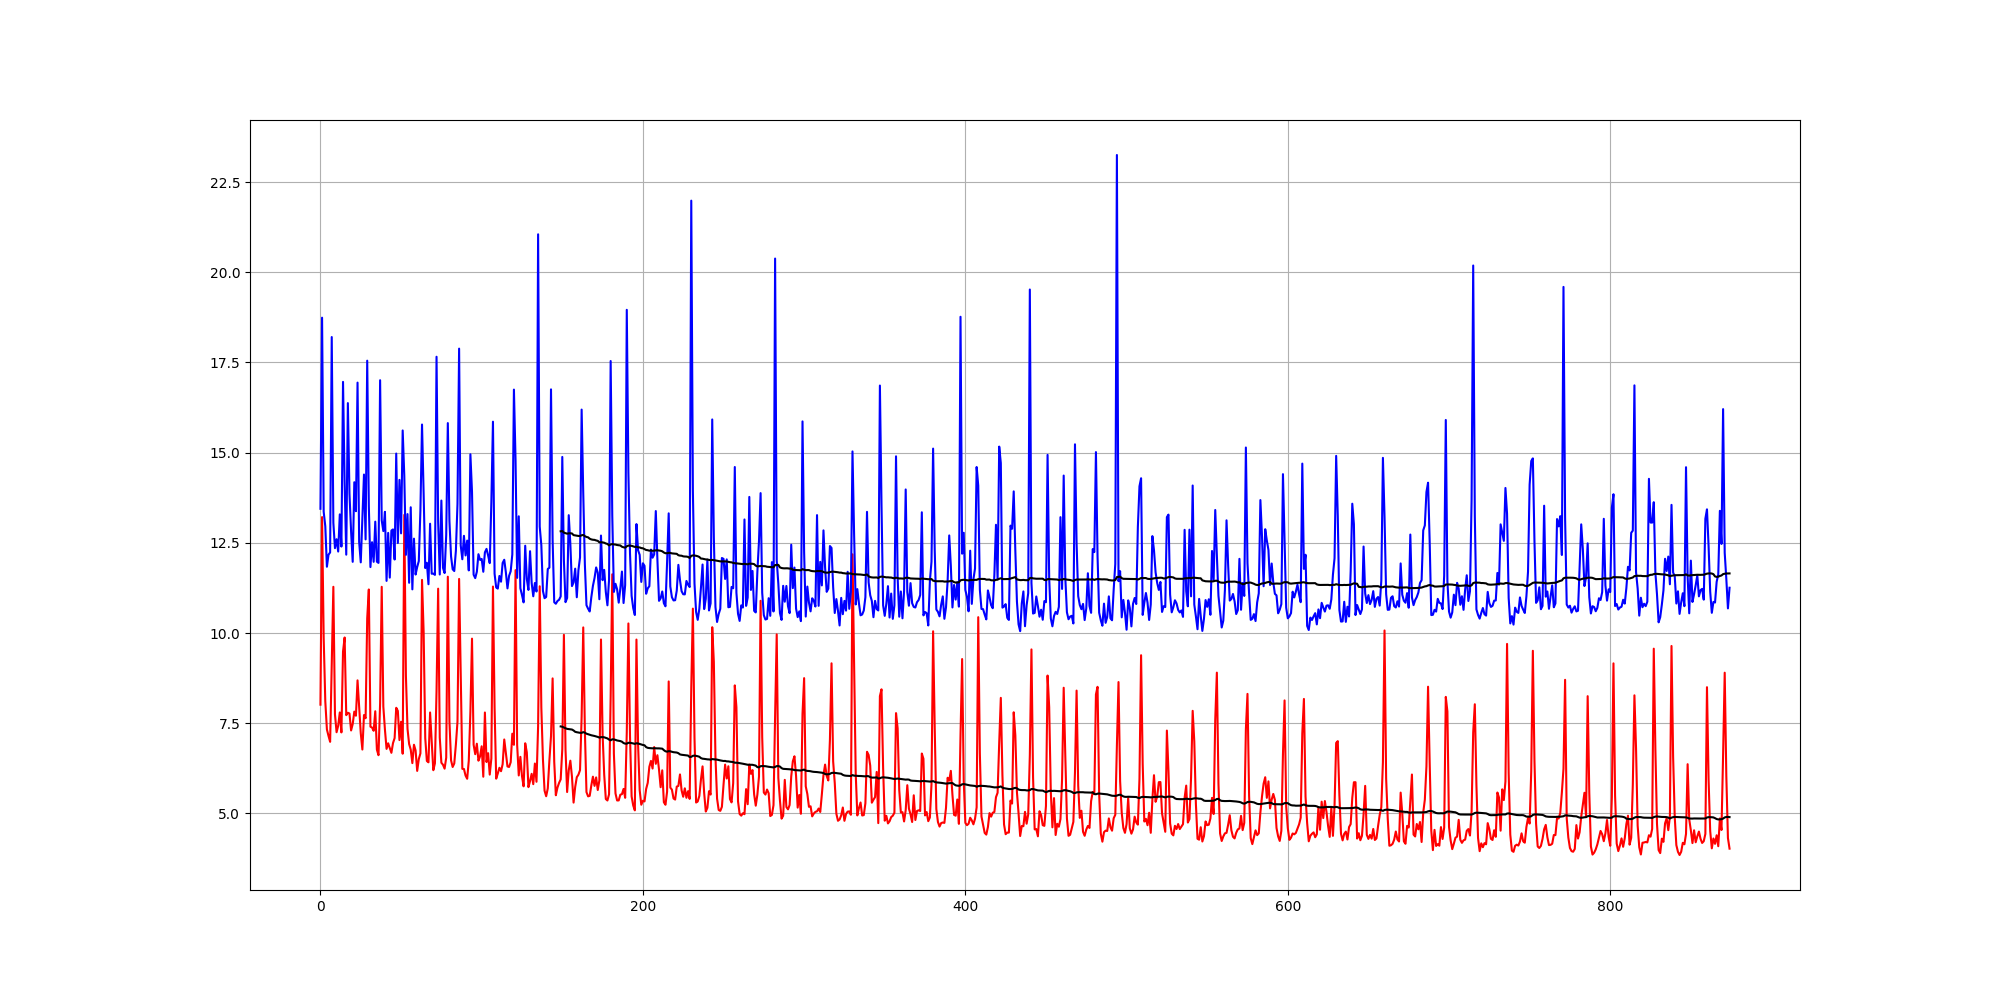
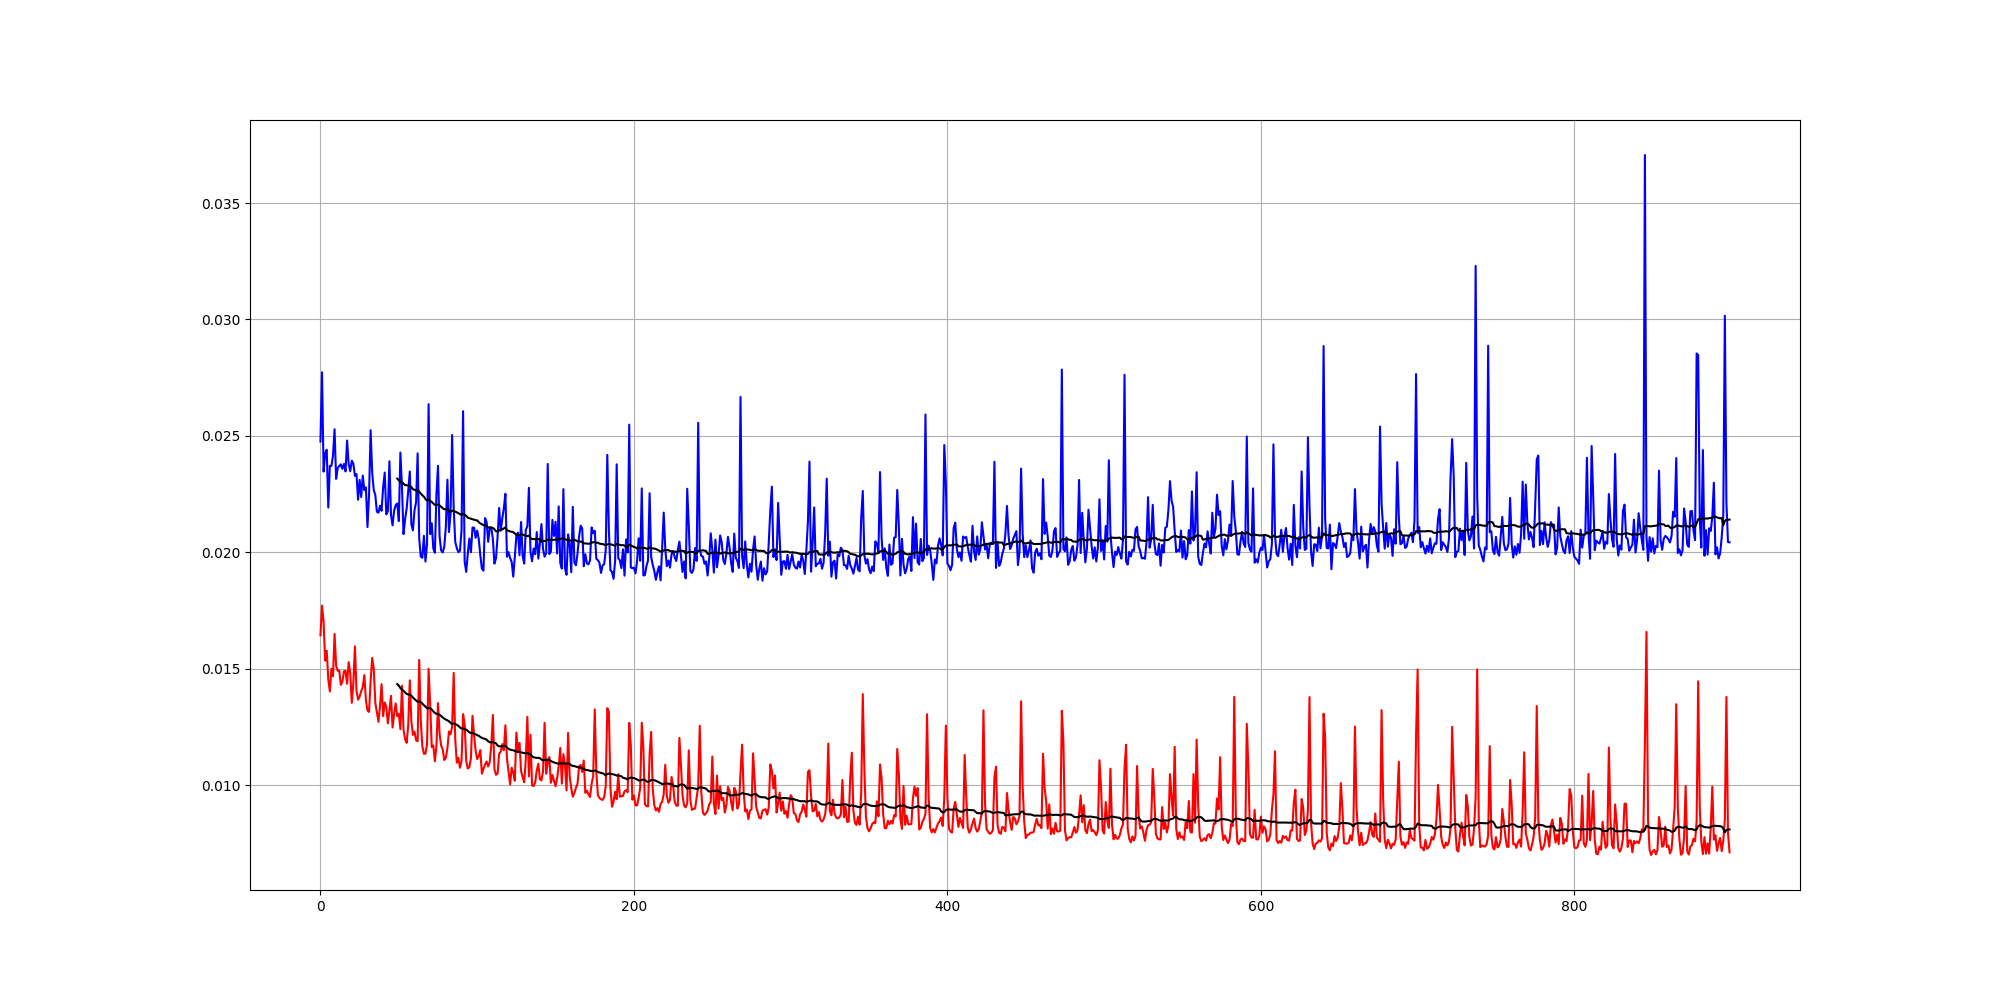
Update

diff --git a/tensorflow-test/nn_train.py b/tensorflow-test/nn_train.py
@@ -6,8 +6,10 @@ import random
 import add_images as img_util
 import numpy as np
 import math
+import tensorflow as tf
 
-point_count = 82
+point_count = 26
+
 
 def center(line):
     x1 = line[0][0]
@@ -15,6 +17,7 @@ def center(line):
     y1 = line[0][1]
     y2 = line[1][1]
     return [int((x1+x2)/2), int((y1+y2)/2)]
+
 
 def get_lines(points):
     l = len(points)
@@ -27,19 +30,22 @@ def get_lines(points):
             lines.append((points[i], points[i + 1]))
     return lines
 
-def merge_points(x:list,y:list):
+
+def merge_points(x: list, y: list):
     all_points = []
     [all_points.extend(line) for line in zip(x, y)]
     return all_points
 
+
 def add_points(points):
     lines = get_lines(points)
     center_points = [center(line) for line in lines]
-    return merge_points(points, center_points)
+    return center_points
+
 
 def extend_by_point(center, point):
-    if point == [0,0]:
-        return [0,0]
+    if point == [0, 0]:
+        return [0, 0]
     x1 = center[0]
     y1 = center[1]
 
@@ -51,22 +57,24 @@ def extend_by_point(center, point):
     v_l = math.sqrt(v[0]**2 + v[1]**2)
     v_norm = [v[0]/v_l, v[1]/v_l]
     dist = v_l + 10
-    x= int(v_norm[0] * dist + x1)
+    x = int(v_norm[0] * dist + x1)
     y = int(v_norm[1] * dist + y1)
-    return [x,y]
-        
+    return [x, y]
+
+
 def extend_by_points(center, points):
     return [extend_by_point(center, x) for x in points]
+
 
 def center_of_lines(points):
     all_points = add_points(points)
 
     center_of_points = (
-        int((all_points[3][0] + all_points[7][0])/2),
-        int((all_points[3][1] + all_points[7][1])/2),
+        int((all_points[1][0] + all_points[3][0])/2),
+        int((all_points[1][1] + all_points[3][1])/2),
     )
 
-    all_points = add_points(all_points)
+    # all_points = add_points(all_points)
     # all_points = add_points(all_points)
     # all_points = add_points(all_points)
 
@@ -76,13 +84,14 @@ def center_of_lines(points):
 
     mid3_points = [center(line) for line in zip(all_points, mid2_points)]
 
-    extended = [[p[0],p[1]] for p in extend_by_points(center_of_points, all_points)]
+    extended = [[p[0], p[1]]
+                for p in extend_by_points(center_of_points, all_points)]
 
-    return [*points, *all_points, *mid3_points, center_of_points]
+    return [*all_points, *mid_points, center_of_points]
+
 
 def extend_points(points):
     return center_of_lines(points)
-
 
 
 # print(predict_input_shape)
@@ -101,9 +110,25 @@ def save_predict_data(images):
         img_info = images[i]
         index = img_info.id - 1
         predict_input[index] = img_util.resize_img_predict(
-                img_info.path, constant.factor)
+            img_info.path, constant.factor)
         print('{} predict data from {}'.format(i, l-1), end="\r")
     np.save('data/predict_input', predict_input, allow_pickle=False)
+
+
+def normalize(x, max):
+    std = np.std([0, max])
+    mean = np.mean([0, max])
+    return (x - mean) / std
+
+
+def denormalize(x, max):
+    std = np.std([0, max])
+    mean = np.mean([0, max])
+    return x * std + mean
+
+
+def norm_point(p):
+    return [normalize(p[0], 800), normalize(p[1], 1188)]
 
 
 def save_train_data(images):
@@ -113,7 +138,7 @@ def save_train_data(images):
 
     img: np.ndarray = img_util.resize_img_predict(
         mark_images[0].path, constant.factor)
-    
+
     shape = (l, *img.shape)
     train_input = np.zeros(shape)
     train_output = np.zeros((l, point_count))
@@ -126,14 +151,15 @@ def save_train_data(images):
         train_input[i] = img_util.resize_img_predict(
             img_info.path, constant.factor)
         mark = img_info.metadata['mark']
-
         extended_marks = [*mark, *extend_points(mark)]
 
         mark_array = []
-        [mark_array.extend(item) for item in extended_marks]
-
+        [mark_array.extend(norm_point(item)) for item in extended_marks]
         train_output[i] = np.array(mark_array)
         print('{} train data from {}'.format(i, l - 1), end="\r")
 
     np.save('data/train_input', train_input, allow_pickle=False)
+
+    
+    print(train_output[0])
     np.save('data/train_output', train_output, allow_pickle=False)

diff --git a/tensorflow-test/nn_model.py b/tensorflow-test/nn_model.py
@@ -1,5 +1,6 @@
 import numpy as np
 import tensorflow as tf
+from tensorflow import keras as k
 
 import matplotlib.pyplot as plt
 from model_profiler import model_profiler
@@ -8,7 +9,7 @@ import json
 import pandas as pd
 import os
 
-test_len = 8
+test_len = 1
 
 
 def flatten(l):
@@ -30,24 +31,17 @@ def create_model(
     normalization = tf.keras.layers.Normalization(axis=None)
     normalization.adapt([0, 255.0])
 
-    model = tf.keras.models.Sequential()
-    model.add(tf.keras.layers.Input((79, 53)))
-    model.add(normalization)
-
-    model.add(tf.keras.layers.Conv1D(conv_factor, 8, activation='relu'))
-    model.add(tf.keras.layers.MaxPooling1D(
-        pool_size=7, strides=1, padding='valid'))
-
-    model.add(tf.keras.layers.Conv1D(
-        conv_factor * 2, 4, activation='relu'))
-    model.add(tf.keras.layers.MaxPooling1D(
-        pool_size=7, strides=1, padding='valid'))
-
-    model.add(tf.keras.layers.Flatten())
-    model.add(tf.keras.layers.Dense(int(dense_base / 25), 'relu'))
-    model.add(tf.keras.layers.Dense(dense_base, 'relu'))
-    model.add(tf.keras.layers.Dense(82))
-
+    model = tf.keras.models.Sequential([
+        k.layers.Input(input_shape),
+        k.layers.BatchNormalization(),
+        k.layers.Conv1D(conv_factor, 16, activation='relu'),
+        k.layers.MaxPooling1D(pool_size=7, strides=1, padding='valid'),
+        k.layers.Conv1D(conv_factor * 2, 4, activation='relu'),
+        k.layers.MaxPooling1D(pool_size=7, strides=1, padding='valid'),
+        k.layers.Flatten(),
+        k.layers.Dense(dense_base, 'relu'),
+        k.layers.Dense(labels_shape),
+    ])
     model.summary()
     return model
 
@@ -60,10 +54,14 @@ def train_model(
 ):
     X: np.ndarray = np.load('data/train_input.npy')
     y: np.ndarray = np.load('data/train_output.npy')
+    y_min = np.min(y)
+    y_max = np.max(y)
     input_shape = X.shape[1:]
     output_shape = y.shape[1:][0]
 
     print()
+    print('y_min: {}'.format(y_min))
+    print('y_max: {}'.format(y_max))
     print('input shape: {}'.format(input_shape))
     print('output shape: {}'.format(output_shape))
     print()
@@ -89,20 +87,15 @@ def train_model(
     return history
 
 
-def plot_train(sma, history):
+def plot_train(sma, history, remove):
     figsize = (20, 10)
     history: dict = history.history
-    loss = history['loss']
-    val_loss = history['val_loss']
-    l = int(len(loss) / 8)
-    history['loss'] = loss[l:]
-    history['val_loss'] = val_loss[l:]
     history_df = pd.DataFrame(history)
-    X = list(range(len(history_df)))
-    a = history_df.loss
-    b = history_df.val_loss
-    c = history_df.loss = history_df.loss.rolling(sma).mean()
-    d = history_df.val_loss = history_df.val_loss.rolling(sma).mean()
+    X = list(range(len(history_df) - remove))
+    a = history_df.loss.tail(-remove)
+    b = history_df.val_loss.tail(-remove)
+    c = a.rolling(sma).mean()
+    d = b.rolling(sma).mean()
 
     plt.figure(figsize=figsize)
     plt.plot(X, a, color='r')
@@ -121,6 +114,7 @@ def train(
     conv_factor,
     dense_base,
     sma,
+    remove,
 ):
     history = train_model(batch_size, epoch_size, conv_factor, dense_base)
-    plot_train(sma, history)
+    plot_train(sma, history, remove)

diff --git a/tensorflow-test/nn_predict.py b/tensorflow-test/nn_predict.py
@@ -4,6 +4,11 @@ from file_storage import model
 from numba import cuda
 from tensorflow import keras
 
+def denormalize(x, max):
+    std = np.std([0, max])
+    mean = np.mean([0, max])
+    return x * std + mean
+
 def predict(storage: model.Storage):
     print('')
     input_data = np.load('data/predict_input.npy')
@@ -16,7 +21,7 @@ def predict(storage: model.Storage):
         result = result_list[i]
         index = i + 1
         result = list(zip(*(iter(result),) * 2))
-        result_predict = [[int(item[0]), int(item[1])] for item in result][0:4]
+        result_predict = [[int(denormalize(item[0], 800)), int(denormalize(item[1], 1188))] for item in result][0:4]
         key = 'predict'
         storage.update_metadata_by_index(index, (key, result_predict))
         print('{} predict from {}'.format(i, l-1), end="\r")

diff --git a/tensorflow-test/add_images.py b/tensorflow-test/add_images.py
@@ -45,8 +45,8 @@ def transform_blur(img: np.ndarray) -> np.ndarray:
     # img = cv.merge(result_norm_planes)
 
     img = cv.cvtColor(img, cv.COLOR_RGB2GRAY)
-    ksize = (3,3)
-    img = cv.blur(img, ksize) 
+    # ksize = (3,3)
+    # img = cv.blur(img, ksize) 
 
     return img
 
@@ -117,7 +117,7 @@ def resize_img_predict(path: str, factor: int):
     resized_width = int(width / factor)
     resized_height = int(height / factor)
     dim = (resized_width, resized_height)
-    img = transform_contrast(img)
+    # img = transform_contrast(img)
     img = transform_blur(img)
     resized = cv.resize(img, dim, interpolation=cv.INTER_AREA)
     return resized

diff --git a/tensorflow-test/main.py b/tensorflow-test/main.py
@@ -21,22 +21,24 @@ storage.init()
 
 images = storage.get_info_by_key()
 
+
+# t.save_train_data(images)
 # t.save_predict_data(images)
-t.save_train_data(images)
 
 m.train(
-    batch_size=50,
+    batch_size=40,
     epoch_size=1000 ,
-    conv_factor=64,
-    dense_base=1024,
-    sma=150,
+    conv_factor=190,
+    dense_base=128,
+    sma=50,
+    remove = 100,
 )
 
-p.predict(storage)
+# p.predict(storage)
 
 
 winsound.PlaySound("SystemExit", winsound.SND_ALIAS)
-play_music()
+# play_music()
 
 diff_time = int(time.time() - prev)
 td = timedelta(seconds=diff_time)

diff --git a/tensorflow-test/constant.py b/tensorflow-test/constant.py
@@ -2,4 +2,4 @@ resized_key = 'resized'
 resized_predict_key = 'resized_predict'
 original_key = 'original'
 
-factor = 15
+factor = 30
